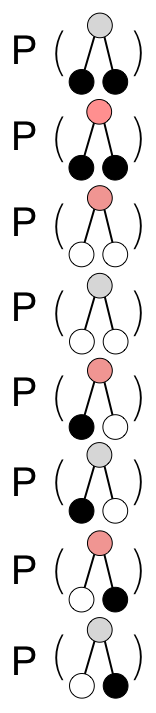
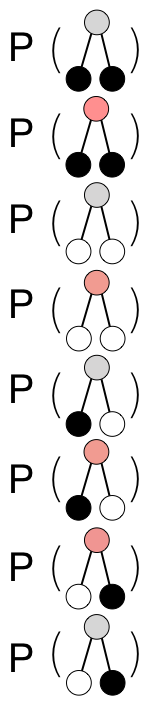
Training RBM histogram labels bug fixed

diff --git a/scripts_and_figs/color_variables_script.js b/scripts_and_figs/color_variables_script.js
@@ -10,7 +10,7 @@ var 	c_histo_bars = "#71a6d2" 		//Color of the histogram bars
 	c1_2D_slider = "#ff8f8f" 		// Slider background color1 (2 COLORS BECAUSE IT IS A GRADIENT)
 	c2_2D_slider = "#71a6d2"		// Slider background color2
 	c_handle_2D_slider = "#d6d6d6" 		// SLider Handle color
-	c_stroke_2D_slider = "#d6d6d6" 		// Slider lines and circle stroke color 
+	c_stroke_2D_slider = "#d6d6d6" 		// Slider lines and circle stroke color
         handle_2D_slider_radius = 6.5
 	c_text_slider = "grey" 			// Slider Text color
 	c_text_histogram = "grey" 		// Histogram text color
@@ -47,9 +47,9 @@ var c_energy_line = "#d6d6d6"  // Color of energy line
     opacity2_temp_background = 0.5 // Opacity upper color
     temp_grad_offset = "50%" 	//This value determines, From when on gradient stops.
 				//The smaller the value the further up blue goes.
-   
+
 	// Other Style Parameter FOR FIGURE 3
-	var r_inactive_dot = 4.0 // Radius of inactive dot 
+	var r_inactive_dot = 4.0 // Radius of inactive dot
 	    r_active_dot = 5.0   // Radius of active dot
             stroke_energy_line = 3.0 // stroke thickness energy line
 	// Convergence Parameters
@@ -87,9 +87,9 @@ magnet_field_radius = 35 // Radius of bias background circle
 c1_hidden_bias = "#d6d6d6" // Hidden Bias top color
 c2_hidden_bias = "#EAB2B2" // Hidden bias intermediate color
 c3_hidden_bias = "#ff8f8f" // Hidden bias bottom color
-c1_visible_bias = "#ffffff"
+c3_visible_bias = "#ffffff"
 c2_visible_bias = "#ffffff"
-c3_visible_bias = "#d6d6d6"
+c1_visible_bias = "#d6d6d6"
 c_bias_field_stroke = "grey" // Color of stroke around bias circles
 
 c_rbm_connection = "#71a6d2" // Color RBM connections
@@ -98,15 +98,15 @@ rbm_connection_opacity = 1.0 // Opacity RBM Connection
 c_mouseover_rbm_connection = "#71a6d2" // Color RBM if mouseover
 rbm_connection_mousover_opacity = 0.8 // OPacity if mouseover
 	// 2D slider exact same colors as in Figure 1 (parity vs temperature))
-c_hidden_node = "#faa869" 
-c_hidden_node_stroke = "black" 
+c_hidden_node = "#faa869"
+c_hidden_node_stroke = "black"
 c_visible_node1 = "#faa869"
 c_visible_node1_stroke = "black"
 c_visible_node2 = "#faa869"
 c_visible_node2_stroke = "black"
 
 c_histo_bars_RBM = "#71a6d2" // Color histo bars
-histo_rx_RBM = 2 // Radius of corners of histo bars 
+histo_rx_RBM = 2 // Radius of corners of histo bars
 
 c_text_tooltip = "grey" // mouseover tooltip text color (when mouse goes over weight lines)
 c_background_tooltip = "#F1F1F1" // mouseover tooltip  background color
